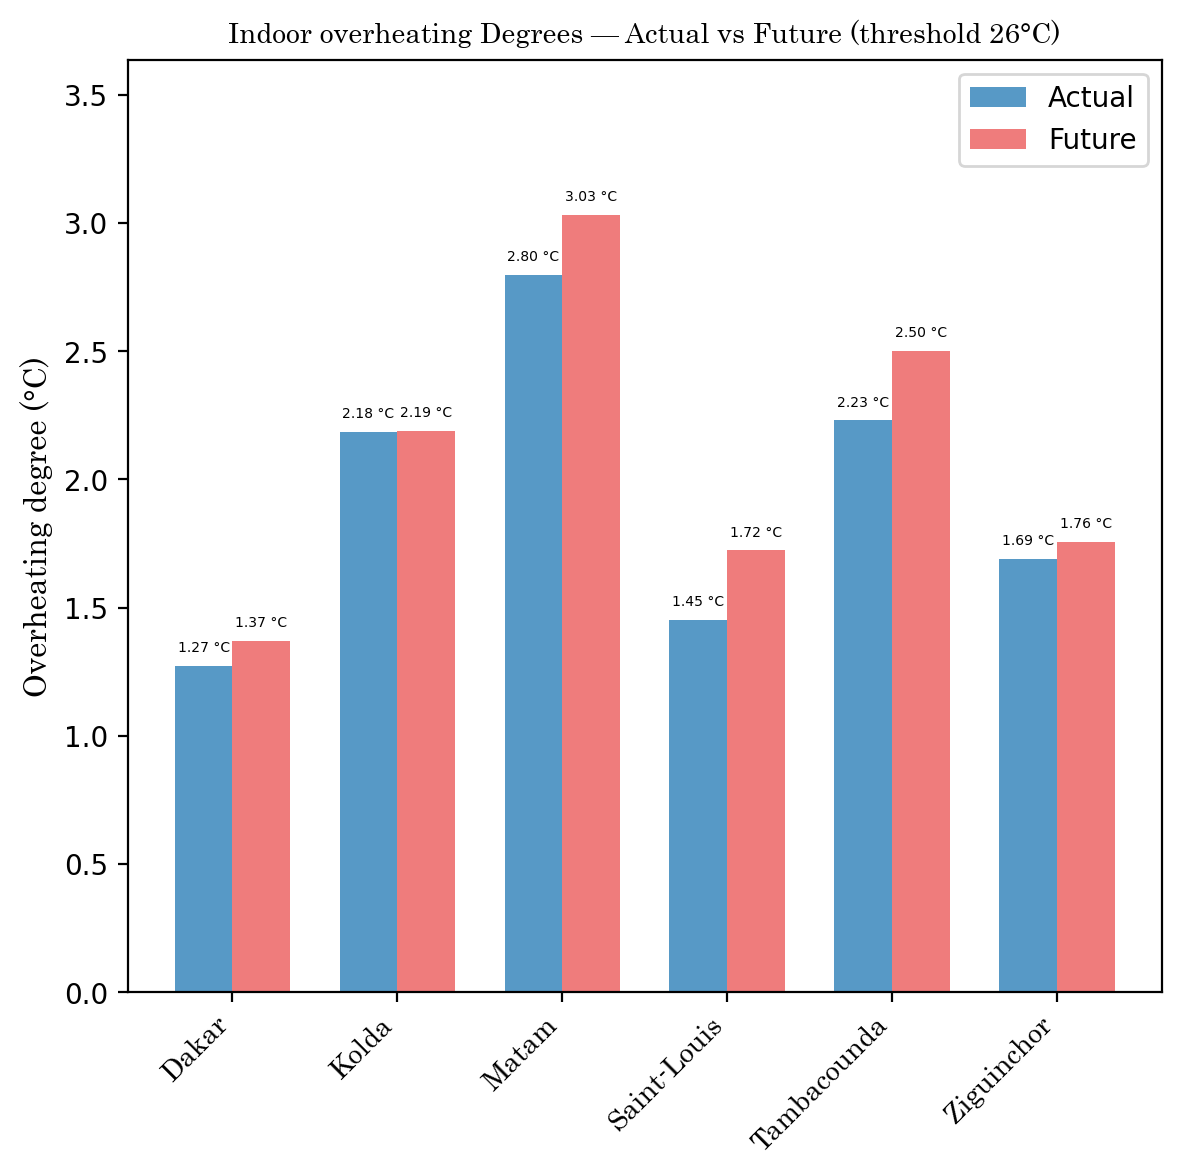
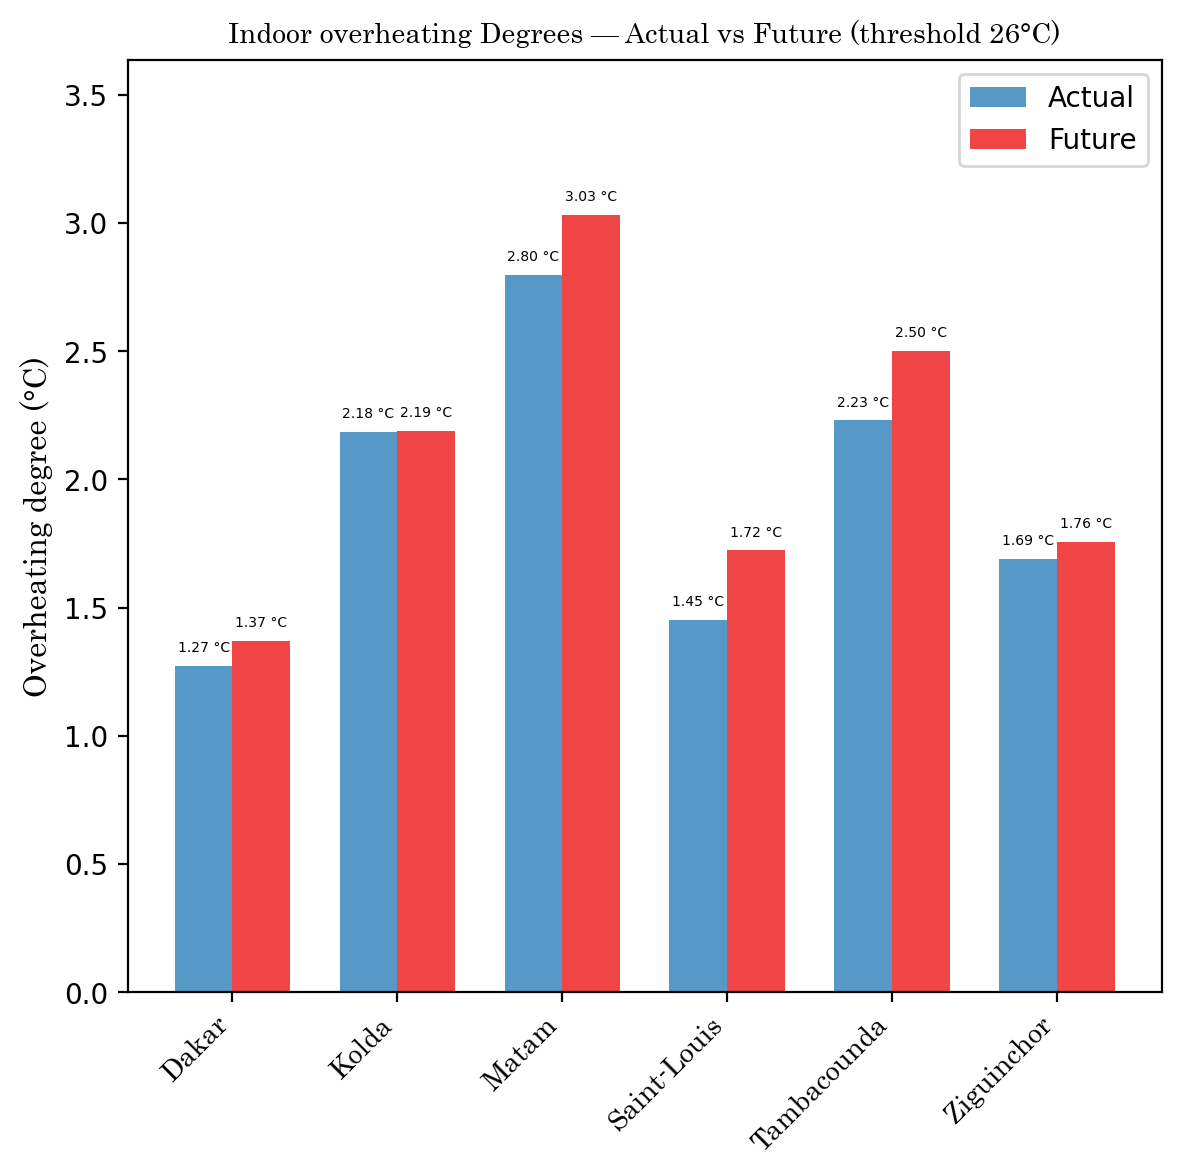
added box plot of overheating

diff --git a/simul/boxplot_overheating.py b/simul/boxplot_overheating.py
@@ -1,0 +1,154 @@
+"""Create boxplots of overheating degree distributions per sheet in compare.xlsx.
+
+Each sheet must contain `op_temp_actual` and `op_temp_future`. The script
+computes exceedance above a threshold (default 26°C) and draws side-by-side
+boxplots per sheet showing the 5th–95th percentile whiskers for Actual and
+Future periods.
+"""
+import os
+from pathlib import Path
+import pandas as pd
+import numpy as np
+import matplotlib.pyplot as plt
+
+
+def apply_rcparams():
+    plt.rcParams.update({
+        'font.family': 'serif',
+        'font.serif': ['Times New Roman', 'Times', 'DejaVu Serif'],
+        'font.size': 9,
+        'axes.labelsize': 10,
+        'axes.titlesize': 11,
+        'xtick.labelsize': 9,
+        'ytick.labelsize': 9,
+        'legend.fontsize': 9,
+        'figure.titlesize': 12,
+        'lines.linewidth': 1.2,
+        'axes.linewidth': 0.7,
+        'xtick.major.width': 0.7,
+        'ytick.major.width': 0.7,
+        'xtick.direction': 'in',
+        'ytick.direction': 'in',
+    })
+
+
+def collect_distributions(xls_path, threshold=26.0):
+    try:
+        sheets = pd.read_excel(xls_path, sheet_name=None)
+    except Exception as e:
+        raise SystemExit(f"Error reading {xls_path}: {e}")
+
+    labels = []
+    actual_list = []
+    future_list = []
+
+    for name, df in sheets.items():
+        if df is None or df.empty:
+            continue
+        if 'op_temp_actual' not in df.columns or 'op_temp_future' not in df.columns:
+            continue
+
+        a = pd.to_numeric(df['op_temp_actual'], errors='coerce')
+        f = pd.to_numeric(df['op_temp_future'], errors='coerce')
+
+        exceed_a = (a - threshold).clip(lower=0).dropna().values
+        exceed_f = (f - threshold).clip(lower=0).dropna().values
+
+        if exceed_a.size == 0 and exceed_f.size == 0:
+            continue
+
+        labels.append(str(name))
+        actual_list.append(np.asarray(exceed_a))
+        future_list.append(np.asarray(exceed_f))
+
+    return labels, actual_list, future_list
+
+
+def plot_box(labels, actual_list, future_list, out_path=None, show_means=True):
+    if out_path is None:
+        out_dir = Path('simul') / 'figures'
+        out_dir.mkdir(parents=True, exist_ok=True)
+        out_path = out_dir / 'overheating_boxplot.png'
+    else:
+        out_path = Path(out_path)
+        out_path.parent.mkdir(parents=True, exist_ok=True)
+
+    apply_rcparams()
+
+    # Filter empty
+    filtered = [(lab, a, f) for lab, a, f in zip(labels, actual_list, future_list)
+                if (a is not None and len(a) > 0) or (f is not None and len(f) > 0)]
+
+    if not filtered:
+        print('No valid data to plot.')
+        return
+
+    labels_f, actual_f, future_f = zip(*filtered)
+    n = len(labels_f)
+    x = np.arange(n)
+    fig_w = max(8, n * 0.6)
+    fig_h = 5
+    fig, ax = plt.subplots(figsize=(fig_w, fig_h))
+
+    width = 0.35
+    pos_a = x - width / 2
+    pos_f = x + width / 2
+
+    bp_a = ax.boxplot(actual_f, positions=pos_a, widths=width * 0.9, whis=(5, 95), patch_artist=True,
+                      showfliers=False)
+    bp_f = ax.boxplot(future_f, positions=pos_f, widths=width * 0.9, whis=(5, 95), patch_artist=True,
+                      showfliers=False)
+
+    for box in bp_a['boxes']:
+        box.set(facecolor='#1f77b4', alpha=0.85, linewidth=0.7)
+    for median in bp_a['medians']:
+        median.set(color='black', linewidth=1.0)
+
+    for box in bp_f['boxes']:
+        box.set(facecolor='#d62728', alpha=0.85, linewidth=0.7)
+    for median in bp_f['medians']:
+        median.set(color='black', linewidth=1.0)
+
+    for whisk in bp_a['whiskers'] + bp_a.get('caps', []):
+        whisk.set(color='black', linewidth=0.7)
+    for whisk in bp_f['whiskers'] + bp_f.get('caps', []):
+        whisk.set(color='black', linewidth=0.7)
+
+    ax.set_xticks(x)
+    ax.set_xticklabels(labels_f, rotation=45, ha='right')
+    ax.set_ylabel('Overheating degree (°C)')
+    ax.set_title('Indoor overheating Degrees Distribution')
+
+    import matplotlib.patches as mpatches
+    p_act = mpatches.Patch(facecolor='#1f77b4', alpha=0.85, label='Actual')
+    p_fut = mpatches.Patch(facecolor='#d62728', alpha=0.85, label='Future')
+    ax.legend(handles=[p_act, p_fut], frameon=True)
+
+    if show_means:
+        means_a = [np.nan if (a is None or len(a) == 0) else float(np.nanmean(a)) for a in actual_f]
+        means_f = [np.nan if (f is None or len(f) == 0) else float(np.nanmean(f)) for f in future_f]
+        for xi, m in zip(pos_a, means_a):
+            if not np.isnan(m):
+                ax.scatter(xi, m, marker='D', s=40, facecolor='white', edgecolor='black', zorder=6)
+        for xi, m in zip(pos_f, means_f):
+            if not np.isnan(m):
+                ax.scatter(xi, m, marker='D', s=40, facecolor='#d62728', edgecolor='black', zorder=6)
+
+    fig.tight_layout()
+    fig.savefig(out_path, dpi=300, bbox_inches='tight')
+    plt.show()
+    print(f"Saved boxplot to {out_path}")
+
+
+if __name__ == '__main__':
+    import argparse
+
+    parser = argparse.ArgumentParser()
+    parser.add_argument('--input', '-i', default=os.path.join('simul', 'compare.xlsx'))
+    parser.add_argument('--threshold', '-t', type=float, default=26.0)
+    parser.add_argument('--out', '-o', default=None)
+    parser.add_argument('--no-mean', action='store_true', help='Do not overlay mean markers')
+    args = parser.parse_args()
+
+    labels, actual_list, future_list = collect_distributions(args.input, threshold=args.threshold)
+    plot_box(labels, actual_list, future_list, out_path=args.out, show_means=not args.no_mean)

diff --git a/simul/calc_overheating.py b/simul/calc_overheating.py
@@ -63,13 +63,14 @@ def plot_overheating(labels, actual_oh, future_oh, out_path=None):
     fig_h = 6
     fig, ax = plt.subplots(figsize=(fig_w, fig_h))
     bars_a = ax.bar(x - width/2, actual_oh, width, label='Actual', color='C0', alpha=0.75)
-    bars_f = ax.bar(x + width/2, future_oh, width, label='Future', color="#ea5050", alpha=0.75)
+    bars_f = ax.bar(x + width/2, future_oh, width, label='Future', color="#eb0707", alpha=0.75)
 
     ax.set_ylabel('Overheating degree (°C)', font = 'Century', fontsize=11)
     ax.set_title('Indoor overheating Degrees — Actual vs Future (threshold 26°C)', font = 'Century')
     ax.set_xticks(x)
     ax.set_xticklabels(labels, rotation=45, ha='right', font = 'Century')
     ax.legend()
+
 
     # add some headroom so labels above bars aren't cut off
     max_h = 0
